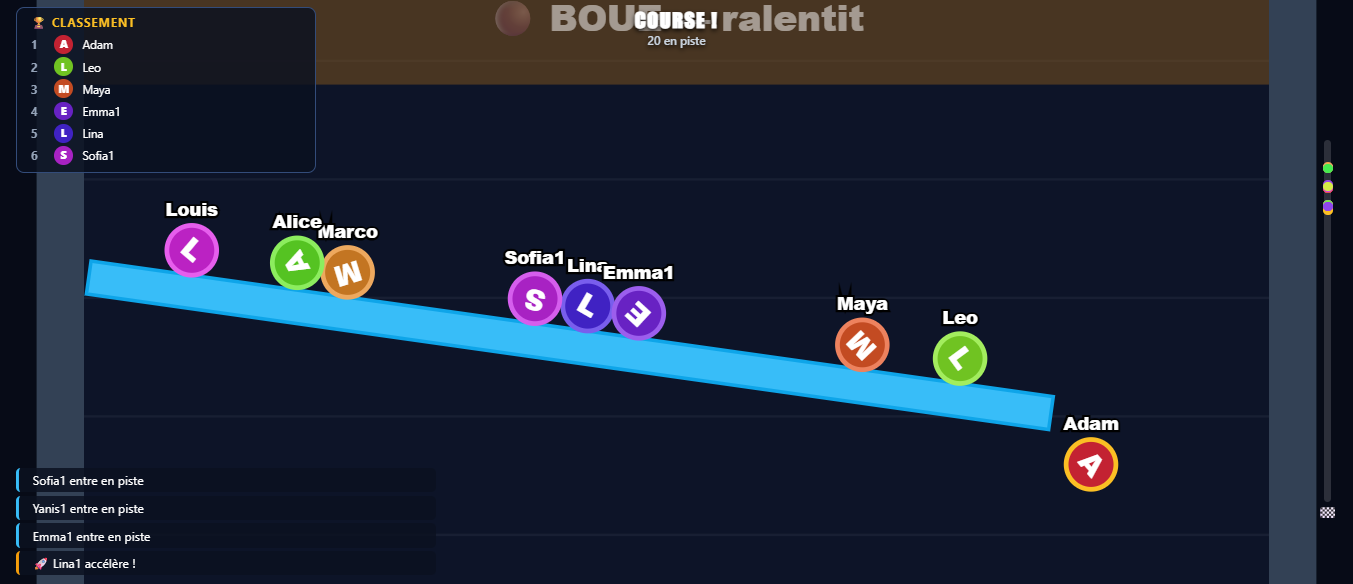
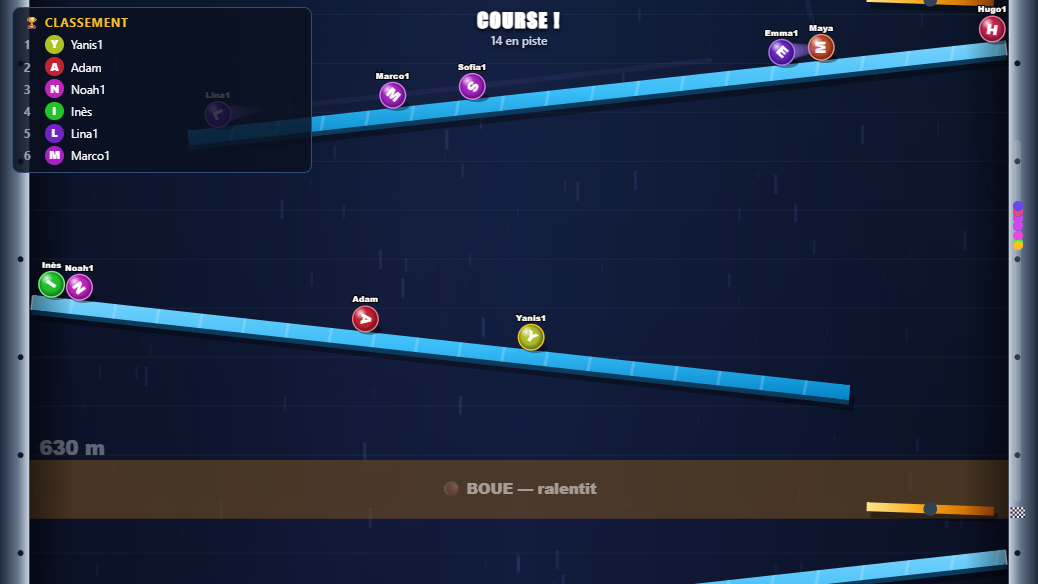
Course de Billes: connexion TikTok dans le panneau, page de commande, billes plus rapides, apercu

diff --git a/course-de-billes.html b/course-de-billes.html
@@ -34,17 +34,17 @@ canvas { position: fixed; inset: 0; width: 100%; height: 100%; display: block; }
 #banner img, #banner .ph { width: 26vh; height: 26vh; border-radius: 50%; border: 1vh solid #fbbf24; object-fit: cover; box-shadow: 0 0 5vh rgba(251,191,36,.8); margin: 1vh auto; display: grid; place-items: center; font: 900 12vh Arial; }
 #banner .name { font: 900 clamp(26px, 7vh, 80px) Arial; }
 #banner .podium { margin-top: 1.5vh; font-size: 3vh; color: #cbd5e1; }
-.tk { position: fixed; top: 1.2vh; right: 1.2vw; z-index: 10; width: min(460px, 94vw); background: rgba(10,16,32,.92); border: .25vh solid #334c7a; border-radius: 1.4vh; padding: 1.2vh 1.2vw; font-size: 2vh; }
+.tk { grid-column: 1 / -1; background: rgba(15,23,42,.9); border: .2vh solid #334c7a; border-radius: 1vh; padding: 1vh .8vw; font-size: 1.8vh; }
 .tk header { display: flex; align-items: center; gap: .8vw; margin-bottom: .8vh; font-weight: 800; }
 .dot { width: 1.4vh; height: 1.4vh; border-radius: 50%; background: #10b981; box-shadow: 0 0 1vh #10b981; flex: none; }
 .dot.off { background: #6b7280; box-shadow: none; } .dot.wait { background: #f59e0b; box-shadow: 0 0 1vh #f59e0b; }
 .tk .row { display: flex; gap: .5vw; }
-.tk input { flex: 1; min-width: 0; padding: 1.1vh 1vw; border-radius: .8vh; border: .2vh solid #475569; background: #0f172a; color: #fff; font-size: 2.4vh; font-weight: 700; }
+.tk input { flex: 1; min-width: 0; padding: .9vh .6vw; border-radius: .8vh; border: .2vh solid #475569; background: #0f172a; color: #fff; font-size: 2vh; font-weight: 700; }
 .tk small { display: block; margin-top: .6vh; color: #94a3b8; }
 button { cursor: pointer; border: none; border-radius: .8vh; padding: 1vh 1.2vw; font: 800 2vh Arial; background: #38bdf8; color: #06202e; }
 button.alt { background: #334155; color: #fff; }
 button:active { transform: scale(.96); }
-#panel { position: fixed; z-index: 10; right: 1.2vw; bottom: 6vh; width: min(300px, 70vw); background: rgba(10,16,32,.94); border: .25vh solid #334c7a; border-radius: 1.4vh; padding: 1.2vh 1vw; display: grid; grid-template-columns: 1fr 1fr; gap: .8vh; }
+#panel { position: fixed; z-index: 10; right: 1.2vw; bottom: 6vh; width: min(380px, 80vw); background: rgba(10,16,32,.94); border: .25vh solid #334c7a; border-radius: 1.4vh; padding: 1.2vh 1vw; display: grid; grid-template-columns: 1fr 1fr; gap: .8vh; }
 #panel h5 { grid-column: 1 / -1; margin: 0; color: #fbbf24; font-size: 2vh; cursor: move; user-select: none; }
 #panel button { font-size: 1.8vh; }
 #panel .wide { grid-column: 1 / -1; }
@@ -64,6 +64,9 @@ button:active { transform: scale(.96); }
 <div class="hud" id="big"></div>
 <div id="banner"><div class="box"><h2>🏁 FINISH !</h2><div id="banner-pic"></div><div class="name" id="banner-name"></div><div class="podium" id="banner-podium"></div></div></div>
 
+
+<div id="panel">
+    <h5 id="panel-handle">⚙ Contrôle (déplaçable)</h5>
 <div class="tk" id="tk">
     <header><span class="dot off" id="dot"></span><span>TikTok Live</span></header>
     <div class="row">
@@ -73,9 +76,6 @@ button:active { transform: scale(.96); }
     </div>
     <small id="ttstatus">Non connecté.</small>
 </div>
-
-<div id="panel">
-    <h5 id="panel-handle">⚙ Contrôle (déplaçable)</h5>
     <button id="b-go" class="wide" type="button">🚦 Lancer le départ</button>
     <button id="b-add" class="alt" type="button">+1 bille</button>
     <button id="b-add10" class="alt" type="button">+10 billes</button>
@@ -109,7 +109,7 @@ const R = 26;
 
 /* Réglages modifiables depuis le panneau de commande (course-de-billes-controle.html) */
 const DEFAULTS = {
-    gravity: 2.2, maxSpeed: 44, levels: 16, spacing: 520, rampAngle: 0.11,
+    gravity: 2.2, maxSpeed: 50, levels: 16, spacing: 520, rampAngle: 0.11,
     mud: true, mudSlow: 0.9, pegs: true, spinners: true, spinSpeed: 0.04,
     likePower: 1, likesJoin: true, giftBoost: 14, videoUrl: '', videoDim: 0.35, bgFx: true
 };
@@ -317,6 +317,7 @@ function physicsStep(now) {
             if (phase === 'race') Body.setVelocity(b, { x: b.velocity.x, y: b.velocity.y + Math.min(m.like, 30) * 0.02 });
             m.like *= 0.992;
         } else m.like = 0;
+        if (phase === 'race' && b.velocity.y > 0.5 && !boosted) Body.setVelocity(b, { x: b.velocity.x * 1.004, y: b.velocity.y * 1.008 });
         if (phase !== 'lobby' || b.position.y > 0) for (const z of mudZones) {
             if (b.position.y > z.y && b.position.y < z.y + z.h) Body.setVelocity(b, { x: b.velocity.x * CFG.mudSlow, y: b.velocity.y * CFG.mudSlow });
         }
@@ -681,7 +682,7 @@ addEventListener('keydown', e => {
     h.addEventListener('pointermove', e => { if (!on) return; p.style.left = (e.clientX - ox) + 'px'; p.style.top = (e.clientY - oy) + 'px'; p.style.right = 'auto'; p.style.bottom = 'auto'; });
     h.addEventListener('pointerup', () => { on = false; });
 })();
-$('start-btn').onclick = () => { $('start').remove(); say('Course de billes prête.'); if ('speechSynthesis' in window) speechSynthesis.getVoices(); };
+$('start-btn').onclick = () => { $('start').remove(); openControl(); say('Course de billes prête.'); if ('speechSynthesis' in window) speechSynthesis.getVoices(); };
 
 /* ---------- Démarrage ---------- */
 let last = performance.now(), acc = 0;
@@ -711,7 +712,7 @@ function applyConfig(next) {
     }
 }
 const control = 'BroadcastChannel' in window ? new BroadcastChannel('cb-control') : null;
-function runCommand(cmd) {
+function runCommand(cmd, extra) {
     if (cmd === 'start') startCountdown();
     else if (cmd === 'reset') resetRace();
     else if (cmd === 'add10') for (let i = 0; i < 10; i++) testMarble();
@@ -720,19 +721,22 @@ function runCommand(cmd) {
     else if (cmd === 'like') { const m = randomMarble(); onLike(m.id, m.name, 20); }
     else if (cmd === 'view') setView(!topView);
     else if (cmd === 'mute') setMuted(!muted);
+    else if (cmd === 'connect') { if (extra && extra.username) $('username').value = extra.username; connect(); }
+    else if (cmd === 'disconnect') disconnect();
 }
 if (control) {
     control.onmessage = ev => {
         const d = ev.data || {};
         if (d.type === 'config') applyConfig(d.cfg);
-        else if (d.type === 'cmd') runCommand(d.cmd);
+        else if (d.type === 'cmd') runCommand(d.cmd, d);
         else if (d.type === 'hello') control.postMessage({ type: 'config', cfg: CFG, state: true });
     };
-    setInterval(() => control.postMessage({ type: 'state', phase, marbles: marbles.size, racers: racers().length, topView, muted }), 1000);
+    setInterval(() => control.postMessage({ type: 'state', phase, marbles: marbles.size, racers: racers().length, topView, muted, live: $('ttstatus').textContent, user: $('username').value, on: $('dot').className === 'dot ' }), 1000);
 }
 applyVideo();
 $('b-like').onclick = () => runCommand('like');
-$('b-ctrl').onclick = () => window.open('course-de-billes-controle.html', 'cb-control', 'width=480,height=820');
+function openControl() { try { window.open('course-de-billes-controle.html', 'cb-control', 'width=480,height=820'); } catch (e) { /* popup bloqué */ } }
+$('b-ctrl').onclick = openControl;
 
 window.__game = { onLike, applyConfig, get CFG() { return CFG; }, get FINISH() { return FINISH; }, marbles, onGift, startCountdown, resetRace, step(n) { for (let i = 0; i < n; i++) physicsStep(performance.now()); }, render() { for (let i = 0; i < 60; i++) updateCamera(); drawWorld(performance.now()); updateHud(performance.now()); }, get phase() { return phase; }, cam };
 </script>

diff --git a/course-de-billes-controle.html b/course-de-billes-controle.html
@@ -34,6 +34,16 @@ small { color: #94a3b8; display: block; margin-top: 4px; }
 <div class="state"><span class="dot" id="dot"></span><span id="state">Jeu non détecté… ouvre course-de-billes.html</span></div>
 
 <fieldset>
+    <legend>Connexion TikTok Live</legend>
+    <div style="display:flex;gap:8px">
+        <input id="tkUser" type="text" placeholder="@pseudo TikTok" autocomplete="off">
+        <button class="green" id="tkGo" style="white-space:nowrap">Connecter</button>
+        <button class="alt" id="tkOff">✕</button>
+    </div>
+    <small id="tkStatus">Non connecté.</small>
+</fieldset>
+
+<fieldset>
     <legend>Commandes</legend>
     <div class="btns">
         <button class="green" data-cmd="start">🚦 Lancer le départ</button>
@@ -87,7 +97,7 @@ small { color: #94a3b8; display: block; margin-top: 4px; }
 
 <script>
 const DEFAULTS = {
-    gravity: 2.2, maxSpeed: 44, levels: 16, spacing: 520, rampAngle: 0.11,
+    gravity: 2.2, maxSpeed: 50, levels: 16, spacing: 520, rampAngle: 0.11,
     mud: true, mudSlow: 0.9, pegs: true, spinners: true, spinSpeed: 0.04,
     likePower: 1, likesJoin: true, giftBoost: 14, videoUrl: '', videoDim: 0.35, bgFx: true
 };
@@ -118,6 +128,10 @@ for (const k of Object.keys(DEFAULTS)) {
     });
 }
 $('defaults').onclick = () => { cfg = { ...DEFAULTS }; show(); push(); };
+const tkConnect = () => { const u = $('tkUser').value.trim().replace(/^@/, ''); if (u && chan) chan.postMessage({ type: 'cmd', cmd: 'connect', username: u }); };
+$('tkGo').onclick = tkConnect;
+$('tkUser').addEventListener('keydown', e => { if (e.key === 'Enter') tkConnect(); });
+$('tkOff').onclick = () => chan && chan.postMessage({ type: 'cmd', cmd: 'disconnect' });
 document.querySelectorAll('[data-cmd]').forEach(b => b.onclick = () => chan && chan.postMessage({ type: 'cmd', cmd: b.dataset.cmd }));
 
 let lastSeen = 0;
@@ -128,6 +142,8 @@ if (chan) {
             lastSeen = Date.now();
             const names = { lobby: 'En attente', count: 'Compte à rebours', race: 'Course en cours', done: 'Arrivée' };
             $('state').textContent = `${names[d.phase] || d.phase} · ${d.marbles} bille(s) · ${d.racers} en piste`;
+            $('tkStatus').textContent = (d.on ? '🟢 ' : '⚪ ') + (d.live || '');
+            if (d.user && document.activeElement !== $('tkUser') && !$('tkUser').value) $('tkUser').value = d.user;
         }
     };
     chan.postMessage({ type: 'hello' });
